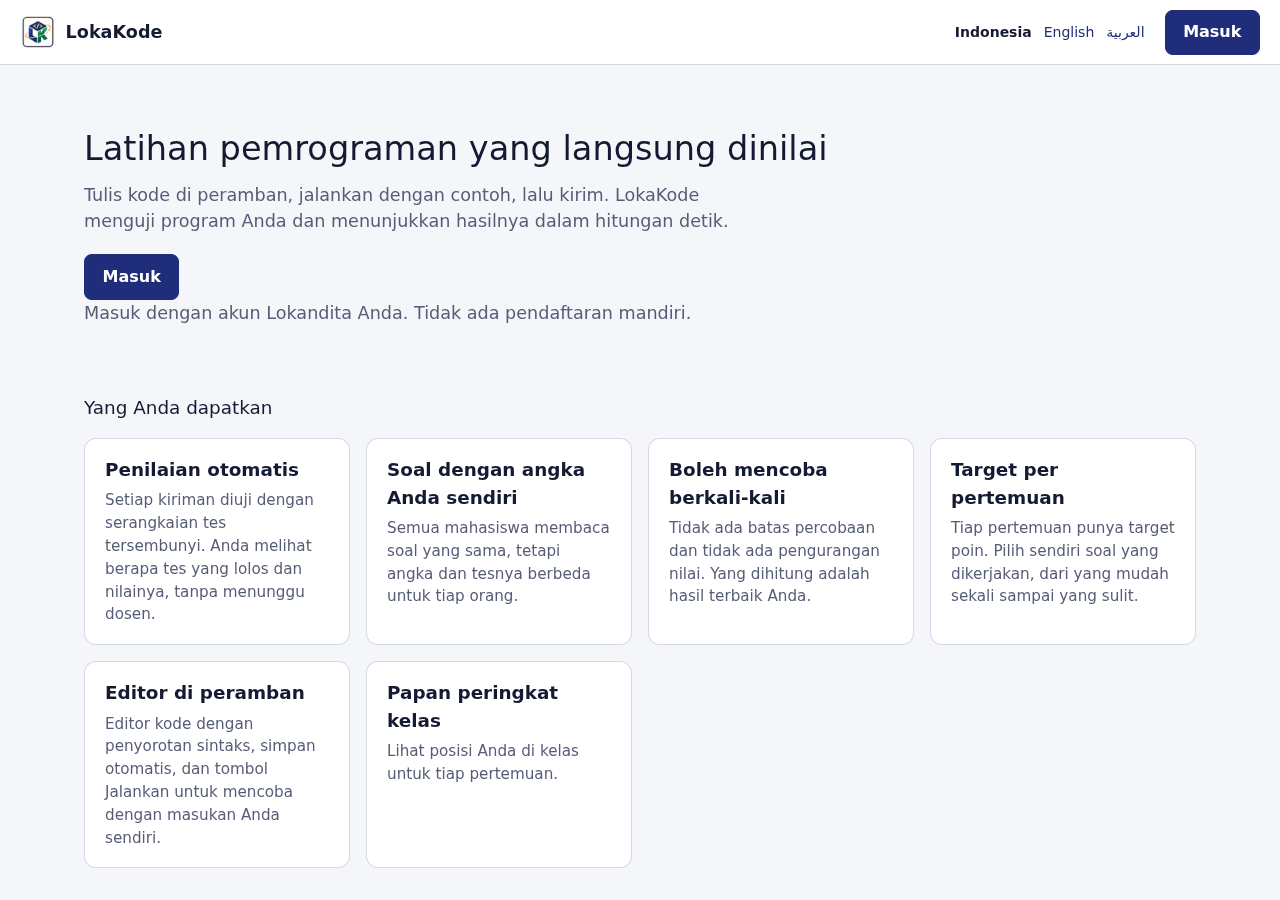
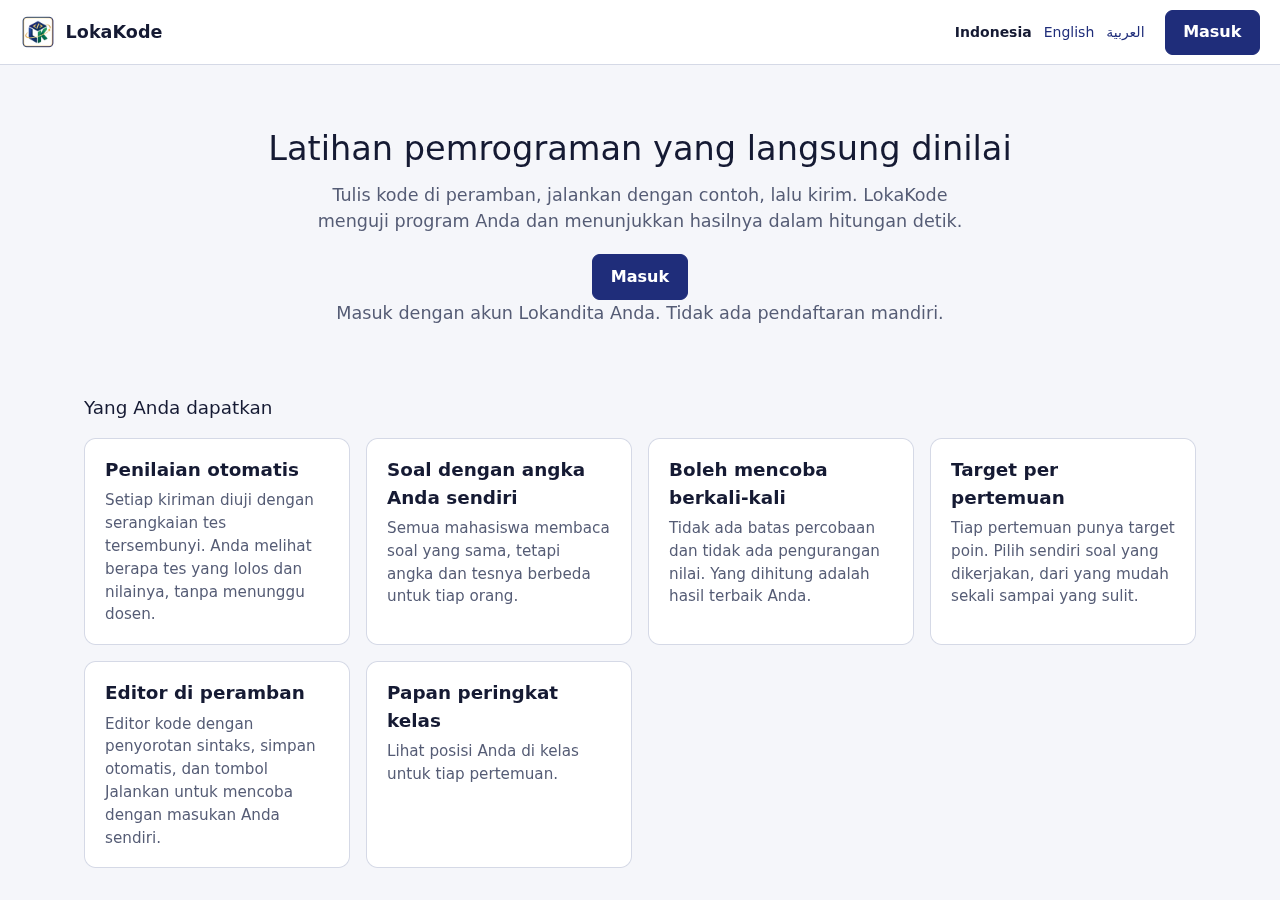
Pembuka dan kolom teks halaman publik kembali dipusatkan untuk Indonesia dan Inggris; Arab tetap rata kanan dari tepi kanan (koreksi pemilik sesudah tahap-11)

Changed region(s): [[0.0625, 0.1556, 0.7812, 0.28], [0.0625, 0.28, 0.7188, 0.3733]]

diff --git a/packages/lokandita-auth/gaya/lokandita.css b/packages/lokandita-auth/gaya/lokandita.css
@@ -86,13 +86,15 @@
   .nav-publik { display: flex; flex-wrap: wrap; gap: 1rem; font-size: .95rem; }
   .nav-publik a { color: var(--teks); text-decoration: none; }
   .nav-publik a:hover, .nav-publik a[aria-current] { text-decoration: underline; }
-  /* Pembuka halaman depan. Semuanya mulai di tepi AWAL kolom isi — kiri untuk Indonesia dan
-     Inggris, kanan untuk Arab — supaya halaman Arab adalah cermin halaman Indonesia. Jangan
-     dipusatkan: teks terpusat di dalam kolom yang mulai dari tepi tidak sejajar dengan apa pun
-     (tests/Peramban/ArabPublikTest.php di Portal mengukurnya di peramban). */
-  .pembuka { padding: 2.5rem 0 1.5rem; text-align: start; }
+  /* Pembuka halaman depan (keputusan pemilik 2026-11-21): dipusatkan untuk Indonesia dan Inggris;
+     untuk Arab rata kanan dan mulai di tepi kanan kolom isi. Teks Arab yang dipusatkan di dalam
+     halaman yang bagian lainnya mulai dari kanan tidak sejajar dengan apa pun.
+     tests/Peramban/ArabPublikTest.php di Portal mengukur keduanya di peramban. */
+  .pembuka { padding: 2.5rem 0 1.5rem; text-align: center; }
+  [dir=rtl] .pembuka { text-align: start; }
   .pembuka h1 { font-size: 2.1rem; line-height: 1.2; margin: 0 0 .75rem; }
-  .pembuka p { max-width: 42rem; margin: 0 0 1.25rem; font-size: 1.1rem; color: var(--teks-redup); }
+  .pembuka p { max-width: 42rem; margin: 0 auto 1.25rem; font-size: 1.1rem; color: var(--teks-redup); }
+  [dir=rtl] .pembuka p { margin-inline: 0; }
   .petak { display: grid; gap: 1rem; grid-template-columns: repeat(auto-fit, minmax(15rem, 1fr)); margin: 1rem 0 2rem; padding: 0; list-style: none; }
   .petak > li, .petak > div { margin: 0; }
   .kartu-aplikasi { display: flex; flex-direction: column; gap: .35rem; height: 100%; padding: 1.1rem 1.25rem; background: var(--kartu); border: 1px solid var(--garis); border-radius: .75rem; color: var(--teks); text-decoration: none; }
@@ -101,8 +103,10 @@
   .kartu-aplikasi span { color: var(--teks-redup); font-size: .95rem; }
   .kartu-aplikasi .lencana { align-self: flex-start; color: var(--emas); border-color: var(--emas); }
   .kartu-aplikasi-segera { opacity: .8; }
-  /* Kolom teks: dibatasi lebarnya supaya enak dibaca, dan mulai di tepi awal kolom isi seperti pembuka. */
-  .prosa { max-width: 46rem; margin: 0; text-align: start; }
+  /* Kolom teks: dibatasi lebarnya supaya enak dibaca. Di tengah untuk Indonesia dan Inggris; untuk
+     Arab mulai di tepi kanan kolom isi, seperti pembukanya. */
+  .prosa { max-width: 46rem; margin: 0 auto; text-align: start; }
+  [dir=rtl] .prosa { margin-inline: 0; }
   .prosa h1 { font-size: 1.75rem; margin: 1rem 0 .5rem; }
   .prosa h2 { font-size: 1.2rem; margin: 1.75rem 0 .35rem; }
   .tanya summary { cursor: pointer; font-weight: 600; padding: .5rem 0; }

diff --git a/apps/portal/tests/Peramban/ArabPublikTest.php b/apps/portal/tests/Peramban/ArabPublikTest.php
@@ -11,11 +11,13 @@ use PHPUnit\Framework\TestCase;
  * Tata letak halaman publik ketiga aplikasi dalam bahasa Arab (kanan-ke-kiri), di
  * peramban sungguhan (Chromium tanpa layar lewat caddy-tes, seperti produksi).
  *
- * Aturannya (pemilik, 2026-11-21): halaman Arab adalah CERMIN halaman Indonesia —
- *   - kepala mulai dari tepi kanan: merek di kanan, tombol dan bahasa di kiri;
- *   - judul pembuka, paragraf, tombol dan catatannya rata kanan dan mulai di tepi kanan
- *     kolom isi, sebagaimana versi Indonesia mulai di tepi kiri;
- *   - kolom isi sama lebar dan sama letaknya, dicerminkan.
+ * Aturannya (pemilik, 2026-11-21):
+ *   - kepala Arab mulai dari tepi kanan: merek di kanan, tombol dan bahasa di kiri — cermin
+ *     kepala Indonesia;
+ *   - kolom isi sama lebar dan sama letaknya, dicerminkan;
+ *   - pembuka Arab (judul, paragraf, tombol, catatan) rata kanan dan mulai di tepi kanan kolom
+ *     isi; pembuka Indonesia dan Inggris tetap DIPUSATKAN;
+ *   - kolom teks Arab mulai di tepi kanan kolom isi; kolom teks Indonesia di tengah.
  *
  * Tes ini mengukur kotak elemen yang benar-benar digambar peramban; ia tidak menilai
  * mutu bahasa Arabnya. Dengan TANGKAPAN_DIR terisi (infra/tes.sh, variabel TANGKAPAN),
@@ -99,7 +101,7 @@ final class ArabPublikTest extends TestCase
     /**
      * @dataProvider halaman
      */
-    public function testHalamanArabAdalahCerminHalamanIndonesia(string $asal, string $jalur): void
+    public function testTataLetakArabDanIndonesia(string $asal, string $jalur): void
     {
         $nama = (string) $this->dataName();
         $p    = new Peramban($asal);
@@ -135,18 +137,17 @@ final class ArabPublikTest extends TestCase
             $this->assertContains($k['rata'], ['right', 'start'], "{$apa} harus rata kanan, ternyata {$k['rata']}");
             $this->assertSame('rtl', $k['arah'], $apa);
             $this->assertDekat($ar['isi']['isiKanan'], $k['kanan'], "{$apa} harus mulai di tepi KANAN kolom isi");
-            // Cermin versi Indonesia: sama lebar, dan jaraknya dari tepi sama.
-            $this->assertContains($id['pembuka'][$i]['rata'], ['left', 'start'], "{$apa} (id) rata kiri");
-            $this->assertDekat($id['isi']['isiKiri'], $id['pembuka'][$i]['kiri'], "{$apa} (id) mulai di tepi kiri kolom isi");
-            $this->assertDekat($id['pembuka'][$i]['kiri'], $L - $k['kanan'], "{$apa}: cermin versi Indonesia");
+            // Versi Indonesia (dan Inggris) dipusatkan: teksnya rata tengah dan kotaknya di tengah kolom isi.
+            $t = $id['pembuka'][$i];
+            $this->assertSame('center', $t['rata'], "{$apa} (id) harus rata tengah");
+            $this->assertDekat(($id['isi']['isiKiri'] + $id['isi']['isiKanan']) / 2, ($t['kiri'] + $t['kanan']) / 2, "{$apa} (id) harus di tengah kolom isi");
         }
 
         // Halaman teks: kolom prosa dicerminkan dan isinya rata kanan dari tepi kanannya.
         if ($ar['prosa'] !== null) {
             $this->assertDekat($id['prosa']['lebar'], $ar['prosa']['lebar'], "{$nama}: lebar kolom teks");
-            $this->assertDekat($Lid - $id['prosa']['kanan'], $ar['prosa']['kiri'], "{$nama}: letak kolom teks (cermin)");
             $this->assertDekat($ar['isi']['isiKanan'], $ar['prosa']['kanan'], "{$nama}: kolom teks harus mulai di tepi KANAN kolom isi");
-            $this->assertDekat($id['isi']['isiKiri'], $id['prosa']['kiri'], "{$nama}: (id) kolom teks mulai di tepi kiri kolom isi");
+            $this->assertDekat(($id['isi']['isiKiri'] + $id['isi']['isiKanan']) / 2, ($id['prosa']['kiri'] + $id['prosa']['kanan']) / 2, "{$nama}: (id) kolom teks di tengah kolom isi");
             $this->assertNotSame([], $ar['prosaAnak']);
             foreach ($ar['prosaAnak'] as $i => $k) {
                 $this->assertContains($k['rata'], ['right', 'start'], "{$nama}: teks ke-" . ($i + 1) . ' rata kanan');
@@ -156,6 +157,21 @@ final class ArabPublikTest extends TestCase
         // Kartu login LokaAuth: di tengah pada kedua bahasa, jadi cerminnya adalah dirinya sendiri.
         if ($ar['kartu'] !== null) {
             $this->assertDekat($Lid - $id['kartu']['kanan'], $ar['kartu']['kiri'], "{$nama}: letak kartu (cermin)");
+        }
+    }
+
+    /**
+     * Bahasa Inggris mengikuti Indonesia: pembuka dipusatkan.
+     */
+    public function testPembukaInggrisDipusatkan(): void
+    {
+        foreach ([[self::PORTAL, 'portal-depan-en'], [self::KODE, 'lokakode-depan-en']] as [$asal, $nama]) {
+            $en = $this->ukur(new Peramban($asal), 'en', '/', 1280, $nama);
+            $this->assertGreaterThanOrEqual(4, count($en['pembuka']), $nama);
+            foreach ($en['pembuka'] as $i => $t) {
+                $this->assertSame('center', $t['rata'], "{$nama}: pembuka anak ke-" . ($i + 1));
+                $this->assertDekat(($en['isi']['isiKiri'] + $en['isi']['isiKanan']) / 2, ($t['kiri'] + $t['kanan']) / 2, "{$nama}: pembuka anak ke-" . ($i + 1) . ' di tengah kolom isi');
+            }
         }
     }
 

diff --git a/PROGRESS.md b/PROGRESS.md
@@ -782,3 +782,13 @@ Carried into the next stages:
 - Stage 10: SEB enforcement, `.seb` download and instructions page; then update the SEB section of the LokaKode landing and the terms. Integrity pages, similarity, communication.
 - Portal artwork when the owner supplies it; an Open Graph image for the Portal.
 - All three hosts are open. 233 student accounts carry the initial-password deadline of 1 December 2026.
+
+After the tag, 2026-11-21 — hero centred again for Indonesian and English (the owner's correction: "I still want the English and Indonesian to be centre aligned but Arabic right aligned"):
+
+- The hero (`.pembuka`) and the text column (`.prosa`) are centred as they were when the gate was run; for Arabic only (`[dir=rtl]`) they are right-aligned and start at the right edge of the content column. The sentence above that the Indonesian and English hero moved to the left edge no longer holds.
+- `ArabPublikTest` asserts both sides: for `id` (seven pages) and `en` (the two landings) every hero child is `text-align: center` with its box centred in the content column, and the text column is centred; for `ar` the assertions of the fix are unchanged. `infra/tes.sh portal` → `OK (54 tests, 1778 assertions)`; `infra/tes.sh auth` → `OK (105 tests, 986 assertions)`.
+- **`infra/tes.sh lokakode` was not rerun for this change** when this entry was written (stylesheet rules for two public-page classes and a Portal test only); its last result is the `OK (236 tests, 10014 assertions)` above.
+- The owner confirmed the Arabic pages of the first fix in his browser ("No 1. is okay"), which also settles the top-bar report.
+- The screenshots in `docs/tangkapan/tahap-11/` were replaced by those of this version; `portal-depan-en.png` added.
+- The tag `tahap-11` stays on `0bb9f79`; this change is one commit after it. Deploy and smoke results of that commit are in the next entry.
+

diff --git a/DECISIONS.md b/DECISIONS.md
@@ -227,3 +227,4 @@ Technical choices made during the build, newest first. One line each: date, deci
 - 2026-11-21 — The rule is enforced by measuring boxes in a real browser (`ArabPublikTest`, Portal suite): brand at the right edge of the top bar, actions at the left, every hero child right-aligned from the right edge of the content column, and each position equal to the mirrored Indonesian one. The viewport is made very tall for the measurement, because a scrollbar present in one language and not the other shifts a centred column by half its width.
 - 2026-11-21 — The browser helper moved from `apps/lokakode/tests/_support` to the shared package (`Lokandita\Auth\Testing\Peramban`), with the origin as a constructor argument; LokaKode keeps a thin subclass so its tests are unchanged.
 - 2026-11-21 — Screenshots asked for by the owner are kept in `docs/tangkapan/tahap-11/` — produced by the test run itself (`TANGKAPAN=…`), from test containers, so they show no real person.
+- 2026-11-21 — Owner's correction after seeing the fix: the hero and the text column stay **centred** for Indonesian and English and are right-aligned from the right edge of the content column only for Arabic (`[dir=rtl]` rules) — this replaces "start-aligned in every language" two entries above. `ArabPublikTest` now asserts both: centred boxes for `id` and `en`, right edge for `ar`.
